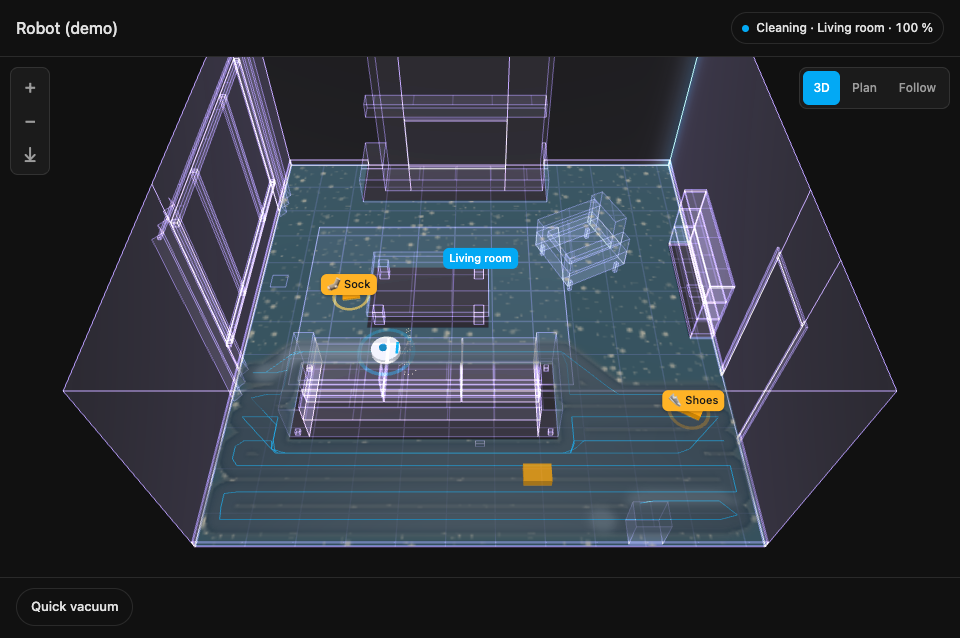
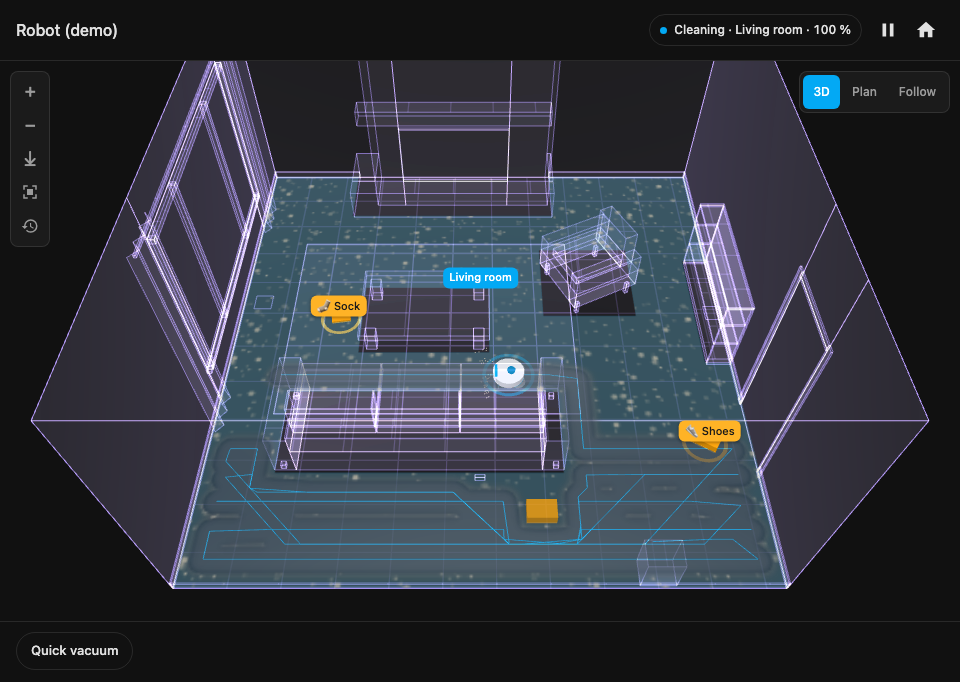
docs(readme): the left card follows the robot after swinging around the room; the GIF and the futuristic screenshot without the scan wave

diff --git a/README.md b/README.md
@@ -9,7 +9,7 @@
 
 A Home Assistant integration for Dreame robot vacuums: local miIO control, Xiaomi cloud login for maps and fallback, Tasshack-compatible cleaning services, a capability table per model, and a 3D card that draws the robot moving through a 3D model of your house.
 
-[![The card, animated, twice side by side: on the left the camera swings around a textured 3D living room while a robot vacuums and mops it, leaving the floor wet; on the right the same room as a hologram switches from 3D to the plan view while the robot vacuums the dust away](docs/images/demo.gif)](https://dortizesquivel.github.io/dreame-vacuum-3d/)
+[![The card, animated, twice side by side: on the left the camera swings around a textured 3D living room and then follows the robot as it vacuums and mops, leaving the floor wet; on the right the same room as a hologram switches from 3D to the plan view while the robot vacuums the dust away](docs/images/demo.gif)](https://dortizesquivel.github.io/dreame-vacuum-3d/)
 
 **[Try the live demo](https://dortizesquivel.github.io/dreame-vacuum-3d/)** on the project's page: the card with a simulated robot, in an example living room or a six-room flat.
 
